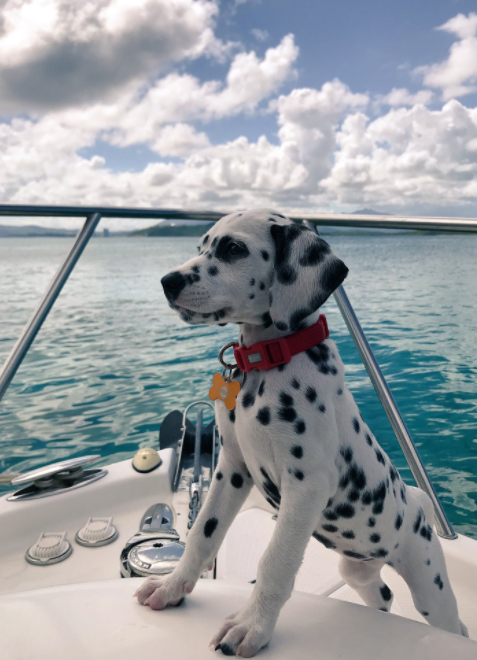
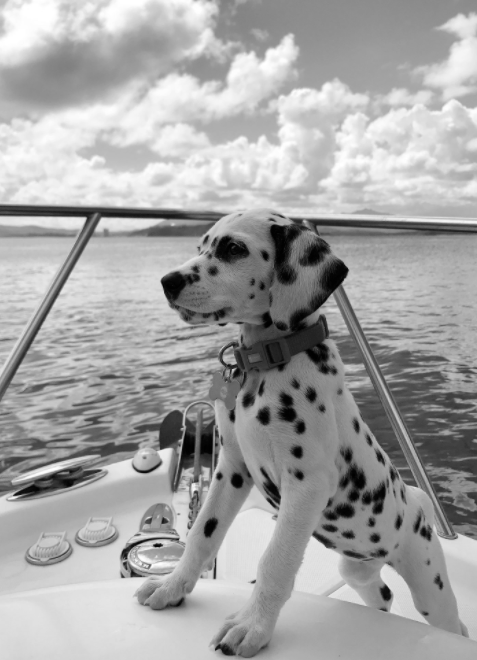
updated ignored files, fixed output for SSIM and turned images to black and white

diff --git a/controllers/StatisticalOrderController.py b/controllers/StatisticalOrderController.py
@@ -38,15 +38,10 @@ class StatisticalOrderController:
         cv2.imwrite(image_output2_path, out_img2)
       
         ssim = a.ssim(input_image, out_img2)
-        str_ssim = str(ssim)
-        print(type(ssim))
-        print(ssim)
-        print(type(str_ssim))
-        print(str_ssim)
-        str1 = image_output2_path + '?ssim=0%3D8'
+        output_str2 = image_output2_path + '?ssim=' + str(ssim)
         # print(str)
         view = View()
-        output = view.render(message=[image_output1_path, image_output2_path])
+        output = view.render(message=[image_output1_path, output_str2])
 
         return '200 okay', output
 
